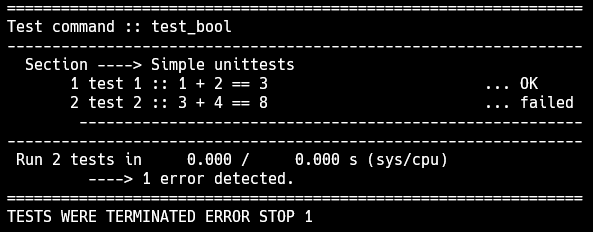
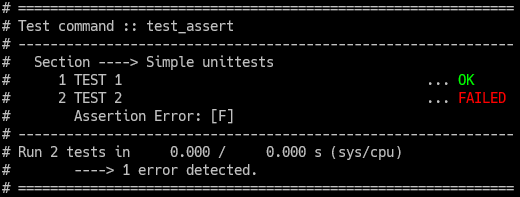
[update] assets

Changed region(s): [[0.0, 0.0, 1.0, 0.9746], [0.0, 0.4569, 0.0308, 0.5178], [0.0, 0.3655, 0.0308, 0.4264]]

diff --git a/README.md b/README.md
@@ -78,12 +78,10 @@ program main
   use mod_unittest
   implicit none
   type(unittest) :: u
-
   call u%init('Simple unittests')
-  call u%assert(1 + 2 == 3, "test 1 :: 1 + 2 == 3")
-  call u%assert(3 + 4 == 8, "test 2 :: 3 + 4 == 8")
+  call u%assert(1 + 2 == 3)
+  call u%assert(3 + 4 == 8)
   call u%finish_and_terminate()
-
 end program main
 ```
 returns the following results
@@ -110,6 +108,11 @@ a simplified error heatmap is available when the test fails.
 
 [![Screen Shot][product-screenshot2]]()
 
+When the executable is run with the --tap option,
+the test results are output in [tap](https://testanything.org/) format.
+
+[![Screen Shot][product-screenshot3]]()
+
 For detail, see [api-reference](https://yymmt742.github.io/unittest).
 
 <p align="right">(<a href="#readme-top">back to top</a>)</p>
@@ -132,6 +135,7 @@ YYMMT742 - yymmt@kuchem.kyoto-u.ac.jp
 [product-screenshot0]: assets/snap_00.png
 [product-screenshot1]: assets/snap_01.png
 [product-screenshot2]: assets/snap_02.png
+[product-screenshot3]: assets/snap_03.png
 [fypp]: https://img.shields.io/badge/fypp-064F8C?style=for-the-badge
 [fypp-url]: https://fypp.readthedocs.io/en/stable/index.html
 [cmake]: https://img.shields.io/badge/Cmake-064F8C?style=for-the-badge&logo=cmake&logoColor=EEEEEE
